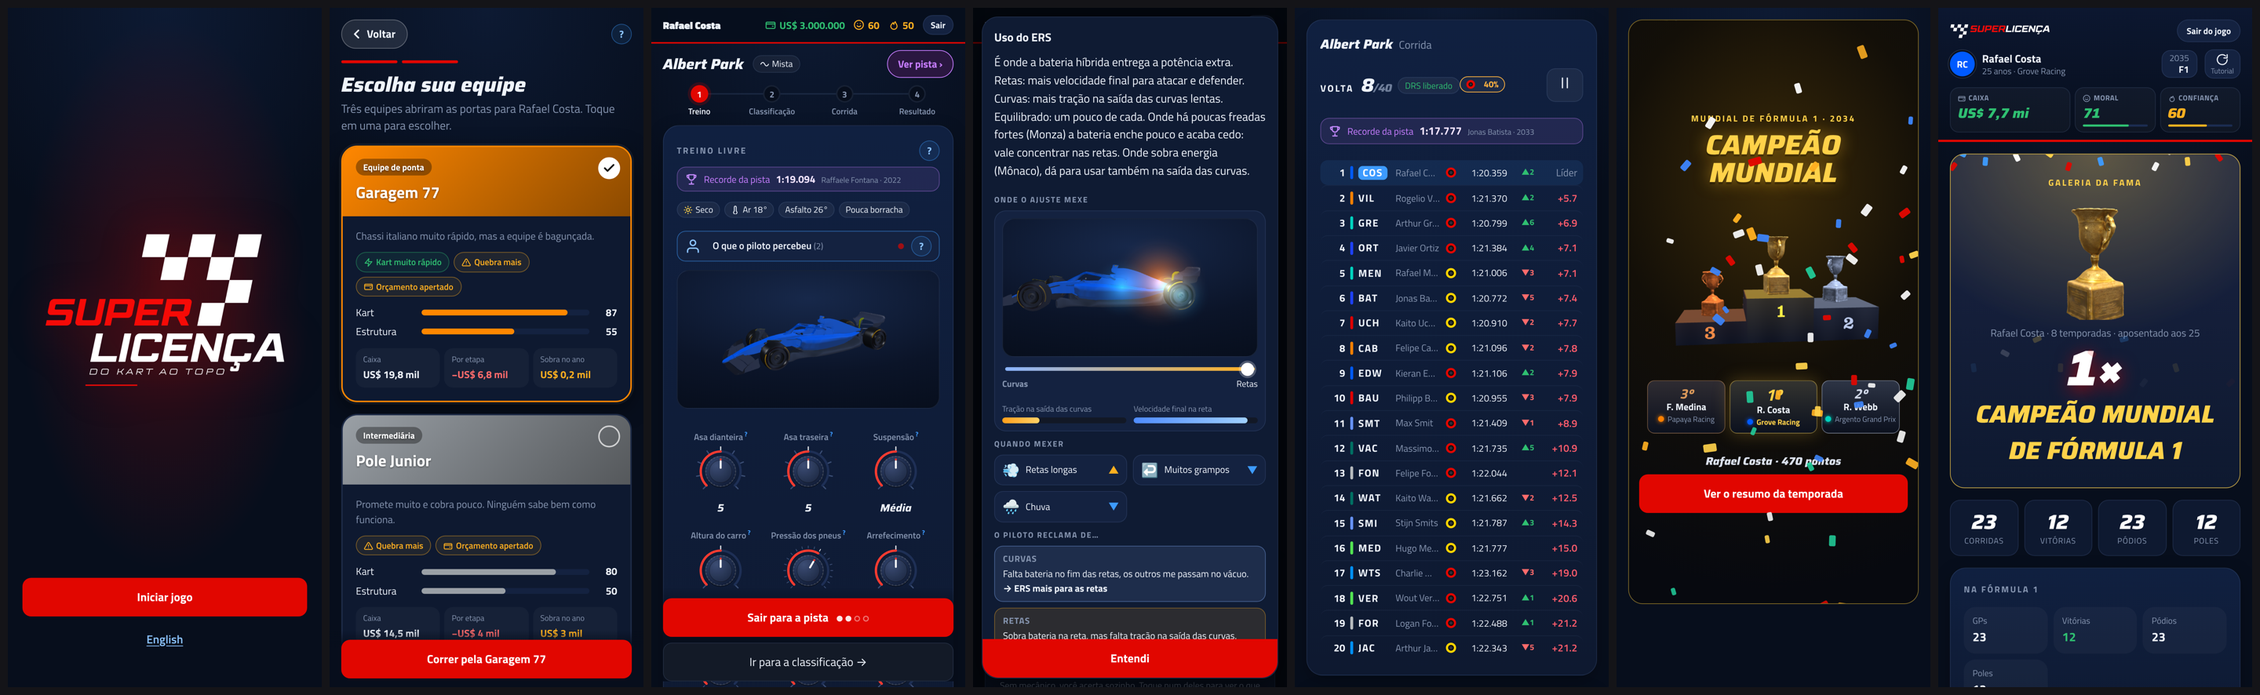
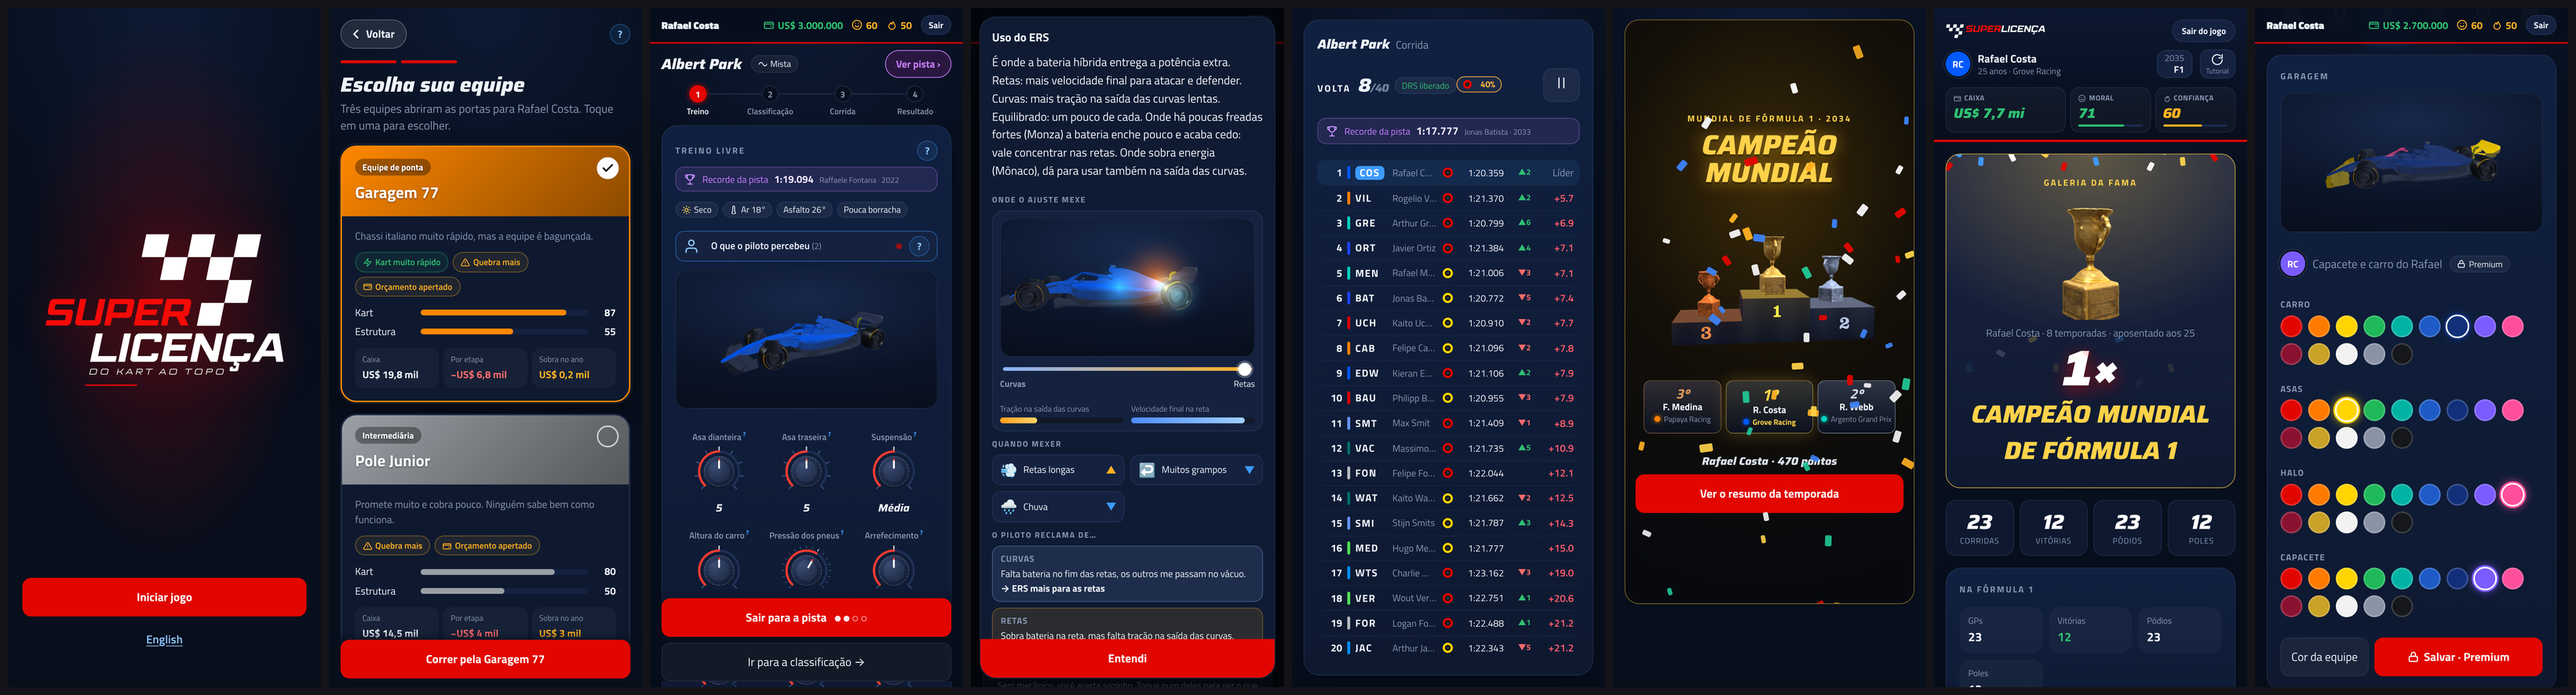
Prints da loja: Garagem (iPhone e iPad, pt e en) e tradução do título do cartão
Claude-Session: https://claude.ai/code/session_01EysvFjT5sqFUNN86Xx4QsN

diff --git a/js/i18n-en-ui.js b/js/i18n-en-ui.js
@@ -122,6 +122,7 @@
     "A revisão fica mais cara quanto mais gasto o motor: revisar cedo custa menos.": "The more worn the engine, the more the service costs: servicing early is cheaper.",
     "Treinar": "Practice",
     "Pular treino": "Qualifying",
+    "Capacete e carro do {1}": "{1}'s helmet and car",
     "Cansou dos anúncios?": "Tired of ads?",
     "Remover com o Premium": "Remove them with Premium",
     "Sem o Premium aparece um anúncio a cada 3 corridas.": "Without Premium, an ad shows up every 3 races.",

diff --git a/docs/capturas/LEIAME.md b/docs/capturas/LEIAME.md
@@ -1,12 +1,12 @@
 # Capturas para a App Store
 
 iPhone 6,7" (1290×2796), português (`pt/`) e inglês (`en/`). Telas:
-`00-abertura`, `01-equipe`, `02-acerto`, `03-ajuda`, `04-corrida`, `05-titulo`, `06-galeria`.
-`folha-pt.png` e `folha-en.png` mostram todas lado a lado. `pt/07-decisao-titulo.png` é extra (cartão de decisão do título, sem versão em inglês).
+`00-abertura`, `01-equipe`, `02-acerto`, `03-ajuda`, `04-corrida`, `05-titulo`, `06-galeria`, `07-garagem`.
+`folha-pt.png` e `folha-en.png` mostram todas lado a lado. `pt/08-decisao-titulo.png` é extra (cartão de decisão do título, sem versão em inglês).
 
 Geradas pelo jogo no navegador de teste (dados fictícios). A Apple aceita 6,7" (1290×2796) e 6,9" (1320×2868).
 
 ## iPad (13", 2048×2732)
 
-`ipad/pt/` e `ipad/en/` têm as mesmas 7 telas (`00-abertura` a `06-galeria`), em 2048×2732, e `ipad/folha-pt.png` e `ipad/folha-en.png` mostram todas.
+`ipad/pt/` e `ipad/en/` têm as mesmas 8 telas (`00-abertura` a `07-garagem`), em 2048×2732, e `ipad/folha-pt.png` e `ipad/folha-en.png` mostram todas.
 O app agora é iPhone e iPad: no iPad a coluna do jogo é ampliada para ocupar a tela (`js/escala-ipad.js`). O App Store Connect aceita 2048×2732 e 2064×2752 para o iPad de 13".
